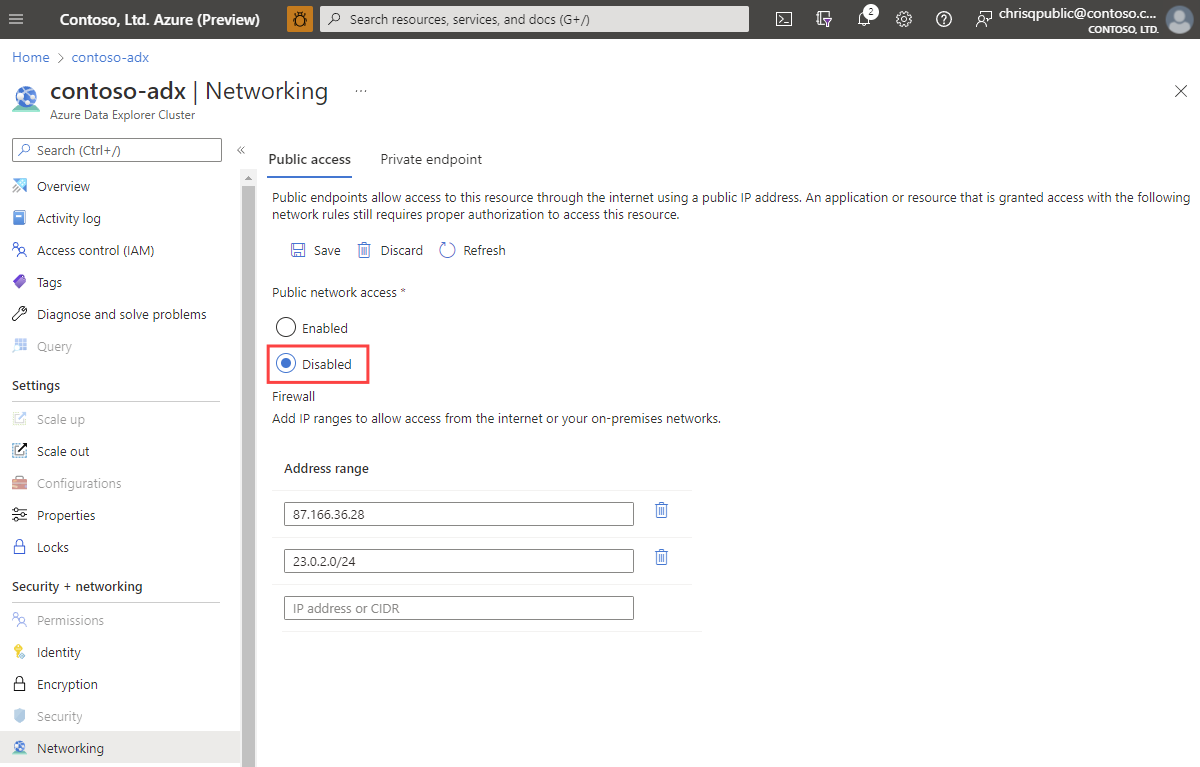
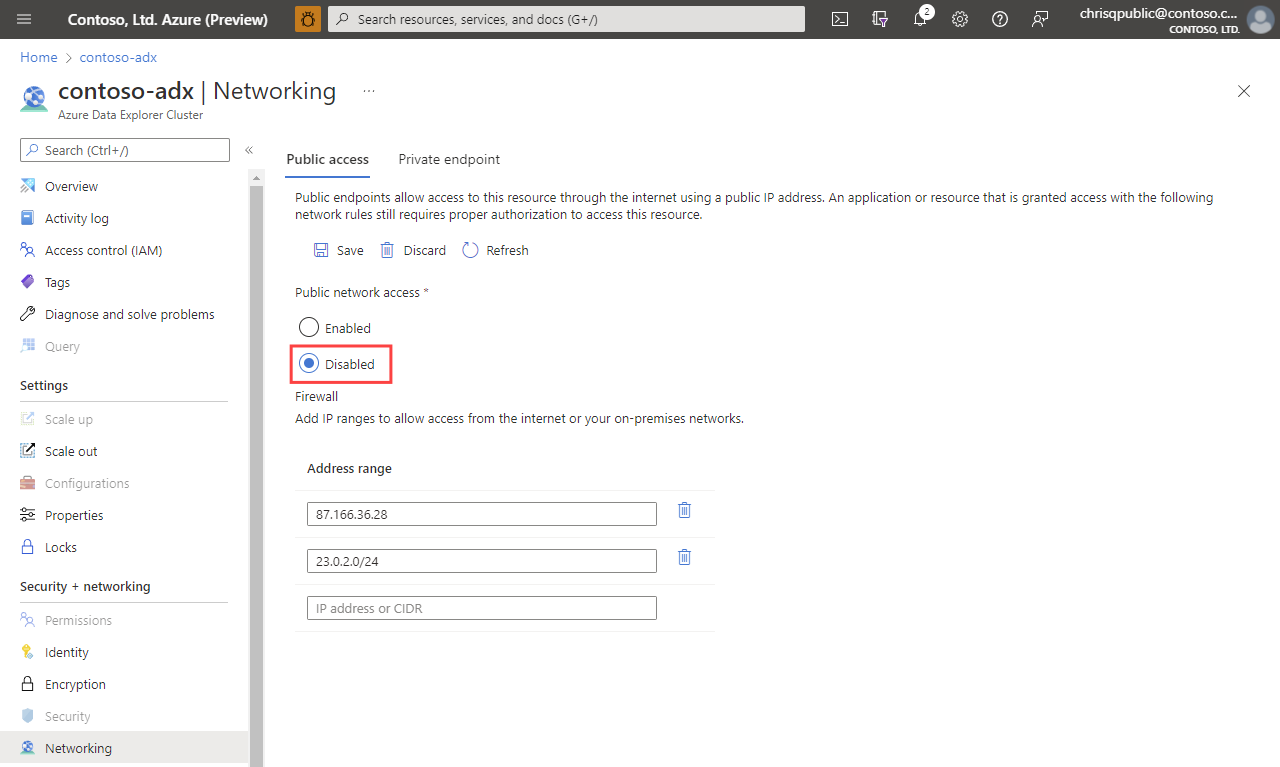
Add lightbox to images

diff --git a/data-explorer/security-network-private-endpoint-create.md b/data-explorer/security-network-private-endpoint-create.md
@@ -186,7 +186,7 @@ In some situations, you may not be able to integrate with the private DNS zone o
 
 1. in the Azure portal, navigate to your private endpoint, and **select DNS configuration**. On this page, you can get the required information for the IP address mapping to the DNS name.
 
-    :::image type="content" source="media/security-network-private-endpoint/pe-dns-config.png" alt-text="Screenshot of the DNS configuration page, showing the DNS configuration of the private endpoint.":::
+    :::image type="content" source="media/security-network-private-endpoint/pe-dns-config-inline.png" alt-text="Screenshot of the DNS configuration page, showing the DNS configuration of the private endpoint." lightbox="media/security-network-private-endpoint/pe-dns-config.png":::
 
     > [!WARNING]
     > This information allows you to propagate your custom DNS server with the necessary records. We highly recommend that you integrate with the private DNS Zones of the VNet and don't configure your own custom DNS server. The nature of private endpoints for Azure Data Explorer clusters is different than for other Azure PaaS services. In some situations, such as high ingestion loads,  in order to increase throughput it might be necessary for the service to scale out the number of storage accounts that are accessible via the private endpoint. If you choose to propagate your own custom DNS server, it is your responsibility to take care of updating the DNS records in such situations, and later removing records i the number of storage accounts is scaled back in.

diff --git a/data-explorer/security-network-managed-private-endpoint-create.md b/data-explorer/security-network-managed-private-endpoint-create.md
@@ -185,11 +185,11 @@ Whichever method you used to create the managed private endpoint using, you must
 
 1. Select **Private endpoint connections**, select the managed private endpoint you created, and then select **Approve**.
 
-    :::image type="content" source="media/security-network-private-endpoint/pe-create-mpe-approval.png" alt-text="Screenshot of the networking page, showing the approval of the managed private endpoint to the Event Hubs service.":::
+    :::image type="content" source="media/security-network-private-endpoint/pe-create-mpe-approval-inline.png" alt-text="Screenshot of the networking page, showing the approval of the managed private endpoint to the Event Hubs service." lightbox="media/security-network-private-endpoint/pe-create-mpe-approval.png":::
 
 1. In the **Connection state** column, verify that the managed private endpoint is approved.
 
-    :::image type="content" source="media/security-network-private-endpoint/pe-create-mpe-approved.png" alt-text="Screenshot of the networking page, showing the approved managed private endpoint to the Event Hubs service.":::
+    :::image type="content" source="media/security-network-private-endpoint/pe-create-mpe-approved-inline.png" alt-text="Screenshot of the networking page, showing the approved managed private endpoint to the Event Hubs service." lightbox="media/security-network-private-endpoint/pe-create-mpe-approved.png":::
 
 Your cluster can now connect to the resource using the managed private endpoint connection.
 

diff --git a/data-explorer/security-network-private-endpoint.md b/data-explorer/security-network-private-endpoint.md
@@ -56,7 +56,7 @@ Clients on a VNet using a private endpoint should use the same connection string
 
 By default, Azure Data Explorer creates a [private DNS zone](/azure/dns/private-dns-overview) attached to the VNet with the necessary updates for the private endpoints. However, if you're using your own DNS server, you may need to make more changes to your DNS configuration.
 
-:::image type="content" source="media/security-network-private-endpoint/pe-dns-config.png" alt-text="Screenshot of the DNS configuration page, showing the DNS configuration of the private endpoint.":::
+:::image type="content" source="media/security-network-private-endpoint/pe-dns-config-inline.png" alt-text="Screenshot of the DNS configuration page, showing the DNS configuration of the private endpoint." lightbox="media/security-network-private-endpoint/pe-dns-config.png":::
 
 Azure Data Explorer creates multiple customer visible FQDNs as part of the private endpoint deployment. In addition to the *query* and *ingestion* FQDN it comes with several FQDNs for blob / table / queue endpoints (needed for ingestion scenarios)
 

diff --git a/data-explorer/security-network-private-endpoint-troubleshoot.md b/data-explorer/security-network-private-endpoint-troubleshoot.md
@@ -30,7 +30,7 @@ Make sure that the name resolution is working properly.
 
 Iterate over all FQDNs of the private endpoint DNS configuration and run the tests using *nslookup*, *Test-NetConnection*, or other similar tools to verify that each DNS matches its corresponding IP address.
 
-:::image type="content" source="media/security-network-private-endpoint/pe-dns-config.png" alt-text="Screenshot of the DNS configuration page, showing the DNS configuration of the private endpoint.":::
+:::image type="content" source="media/security-network-private-endpoint/pe-dns-config-inline.png" alt-text="Screenshot of the DNS configuration page, showing the DNS configuration of the private endpoint." lightbox="media/security-network-private-endpoint/pe-dns-config.png":::
 
 ### Check DNS resolution
 

diff --git a/data-explorer/security-network-restrict-public-access.md b/data-explorer/security-network-restrict-public-access.md
@@ -14,7 +14,7 @@ To restrict public access to your cluster, you must turn off access from public 
 
 1. Select **Public access**, and then under **Public network access**, select **Disabled**.
 
-    :::image type="content" source="media/security-network-restrict-access/restrict-public-access.png" alt-text="Screenshot of the networking page, showing the disable public access option.":::
+    :::image type="content" source="media/security-network-restrict-access/restrict-public-access-inline.png" alt-text="Screenshot of the networking page, showing the disable public access option." lightbox="media/security-network-restrict-access/restrict-public-access.png":::
 
 1. Optionally, you can define a list of IP addresses that can connect to the public endpoint your cluster.
 
